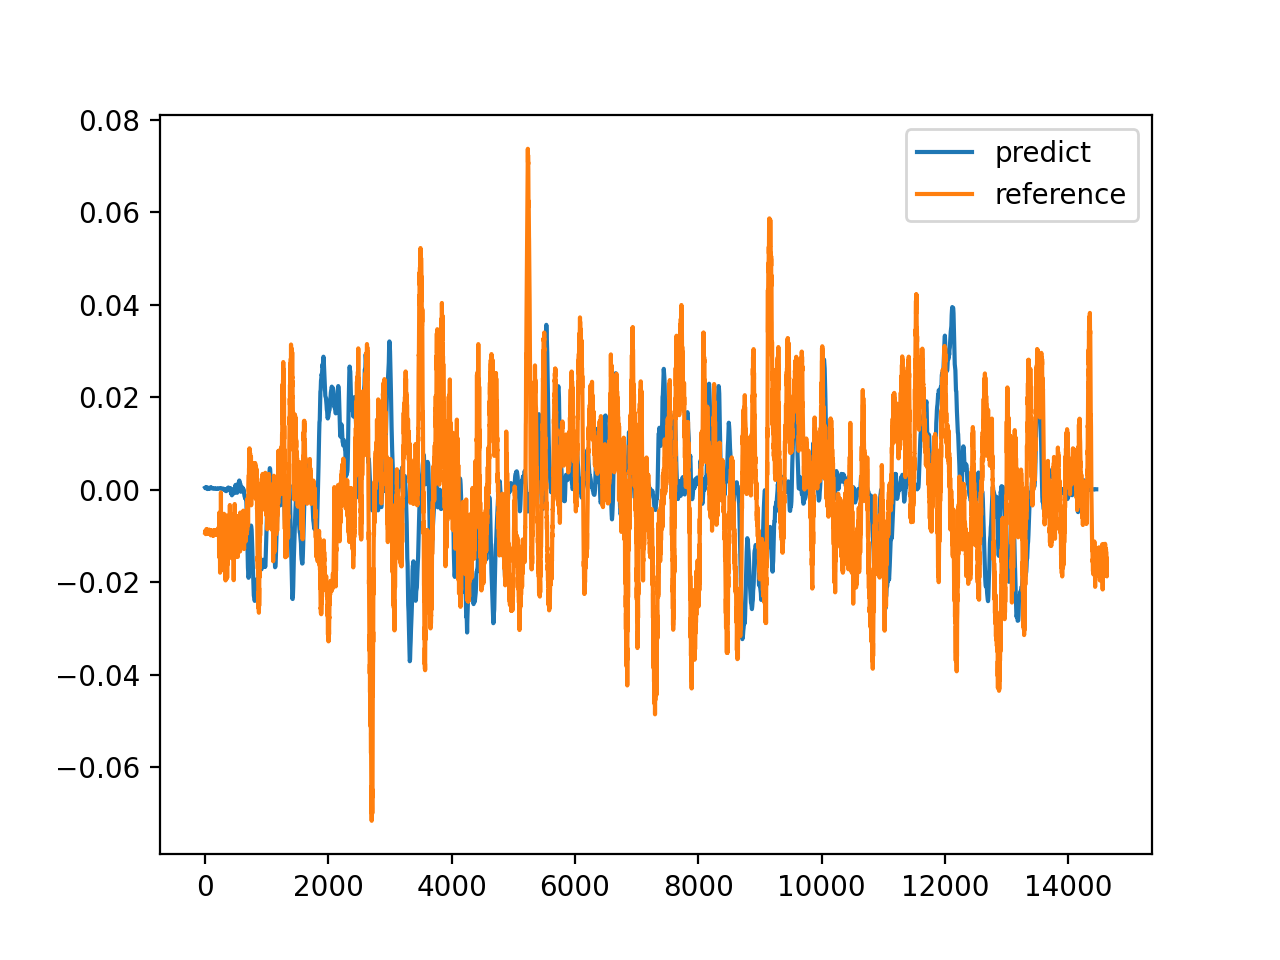
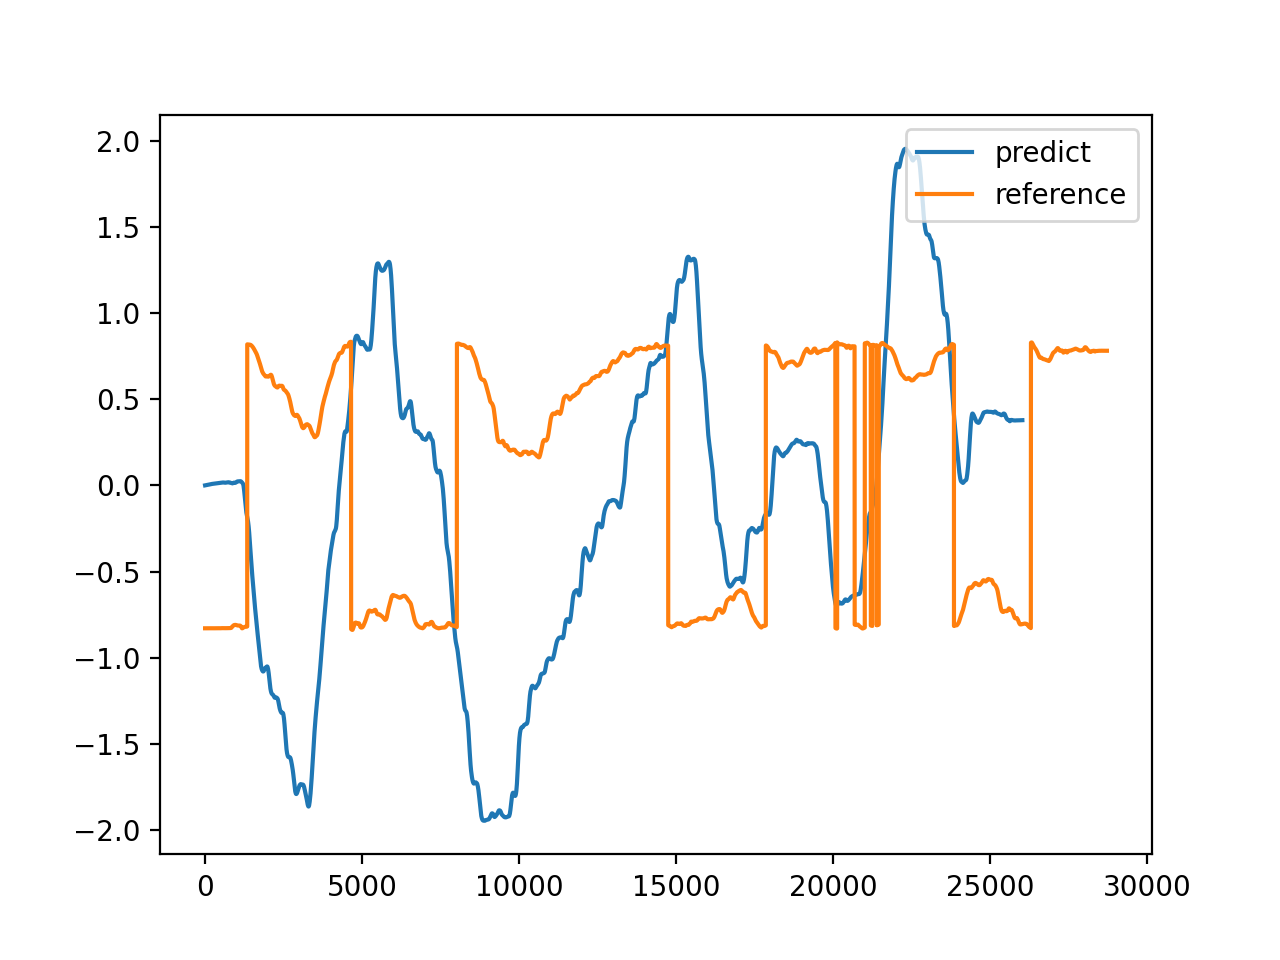
feature: Prints trajectory fine (but not very good in performance).

diff --git a/train_first_inertial_stage.py b/train_first_inertial_stage.py
@@ -23,11 +23,11 @@ Runs the experiment itself.
     room2_tum_dataset = AsymetricalTimeseriesDataset(x_csv_path="dataset-room2_512_16/mav0/imu0/data.csv", y_csv_path="dataset-room2_512_16/mav0/mocap0/data.csv",
                                                      min_window_size=30, max_window_size=31, shuffle=False, device=device, convert_first=True)
 
-    euroc_v2_dataset = AsymetricalTimeseriesDataset(x_csv_path="V1_01_easy/mav0/imu0/data.csv", y_csv_path="V1_01_easy/mav0/vicon0/data.csv",
+    euroc_v2_dataset = AsymetricalTimeseriesDataset(x_csv_path="V2_02_medium/mav0/imu0/data.csv", y_csv_path="V1_01_easy/mav0/vicon0/data.csv",
                                                     min_window_size=100, max_window_size=101, shuffle=False, device=device, convert_first=True)
 
     dados_de_entrada_imu = read_csv("V1_01_easy/mav0/imu0/data.csv").to_numpy()[:, 1:]
-    dados_de_saida = read_csv("V1_01_easy/mav0/vicon0/data.csv").to_numpy()[:, 1:]
+    dados_de_saida = read_csv("V1_01_easy/mav0/state_groundtruth_estimate0/data.csv").to_numpy()[:, 1:]
 
     predict = []
     for i in tqdm(range(0, dados_de_entrada_imu.shape[0] - 200, 10)):
@@ -41,6 +41,7 @@ Runs the experiment itself.
         )
 
     predict = array(predict)
+    predict = np.cumsum(predict, axis=0)
 
     dimensoes = ["px", "py", "pz", "qw", "qx", "qy", "qz"]
     for i, dim_name in enumerate(dimensoes):
